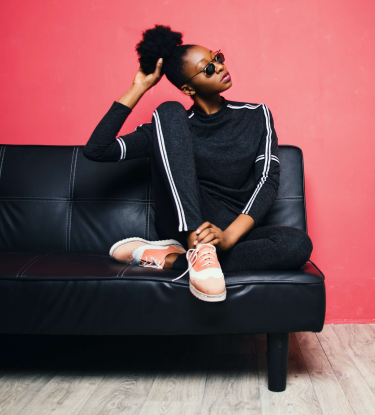
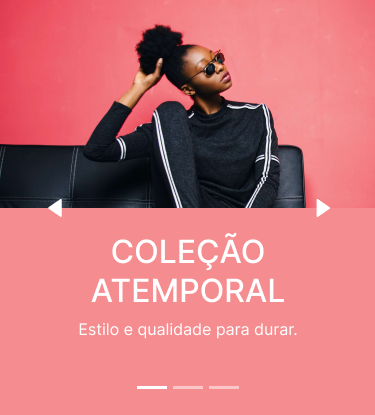
modified: css/menu.css

diff --git a/menu.html b/menu.html
@@ -20,7 +20,7 @@
     <header>
         <img src="img/Logo-meteora/1440.Logo.png" alt="Logo Meteora" class="logo"> 
         <nav id="nav">
-            <button aria-label="Abrir Menu" id="btn-mobile" aria-haspopup="true" aria-controls="menu" aria-expanded="false">Menu
+            <button aria-label="Abrir Menu" id="btn-mobile" aria-haspopup="true" aria-controls="menu" aria-expanded="false">
                 <span id="hamburguer"></span>
             </button>
             <ul id="menu" role="menu">
@@ -75,13 +75,13 @@
             <!-- The slideshow/carousel/o próprio -->
             <div class="carousel-inner">
                 <div class="carousel-item active">
-                    <img src="img/carousel/1440.Banner.1.png" alt="Banner 1" class="d-block w-100">
+                    <img src="img/carousel/375.Banner.1.png" alt="Banner 1" class="d-block w-100">
                 </div>
                 <div class="carousel-item">
-                    <img src="img/carousel/1440.Banner.2.png" alt="Banner 2" class="d-block w-100">
+                    <img src="img/carousel/375.Banner.2.png" alt="Banner 2" class="d-block w-100">
                 </div>
                 <div class="carousel-item">
-                    <img src="img/carousel/1440.Banner.3.png" alt="Banner 3" class="d-block w-100">
+                    <img src="img/carousel/375.Banner.3.png" alt="Banner 3" class="d-block w-100">
                 </div>
                 <!-- Left and right controls/icons -->
                 <button class="carousel-control-prev" type="button" data-bs-target="#demo" data-bs-slide="prev">

diff --git a/css/carousel.css b/css/carousel.css
@@ -1,6 +1,10 @@
 .container-carrossel {}
 
-
+.h2-container-categoria {
+    color: white;
+    display: flex;
+    justify-content: center;
+}
 
 
 
@@ -11,13 +15,17 @@
 
 
 @media (max-width: 375px) {
-    .carousel-inner {
-        background-image: url('img/carousel/375.Mobile.png');
-    }
+    
 }
 
 @media (max-width: 600px) {}
 
 @media (max-width: 768px) {}
 
-@media (max-width: 1440px) {}
+@media (max-width: 1440px) {
+    .carousel-inner {
+        background-image: url('img/carousel/768.Banner.png');
+        background-repeat: no-repeat;
+        background-size: cover;
+    }
+}

diff --git a/css/menu.css b/css/menu.css
@@ -90,7 +90,7 @@ header {
 
 
 
-@media (max-width: 375px) {
+@media (max-width: 320px),(max-width: 375px), (max-width: 600px) {
     header {
         max-width: 375px;
         padding: 0px;
